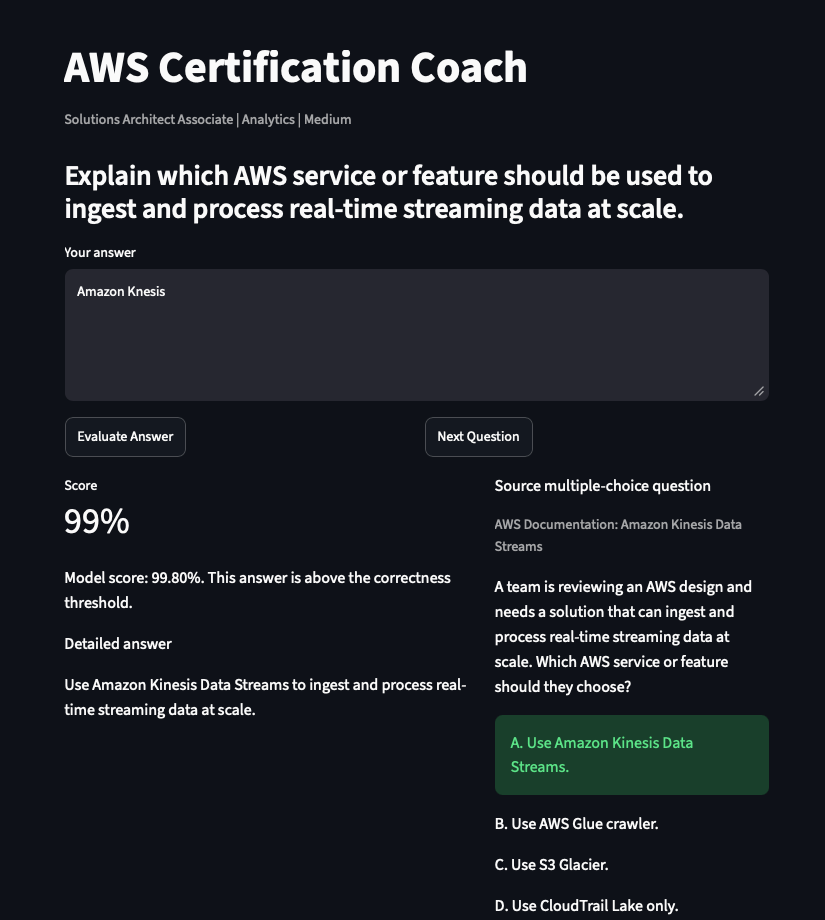
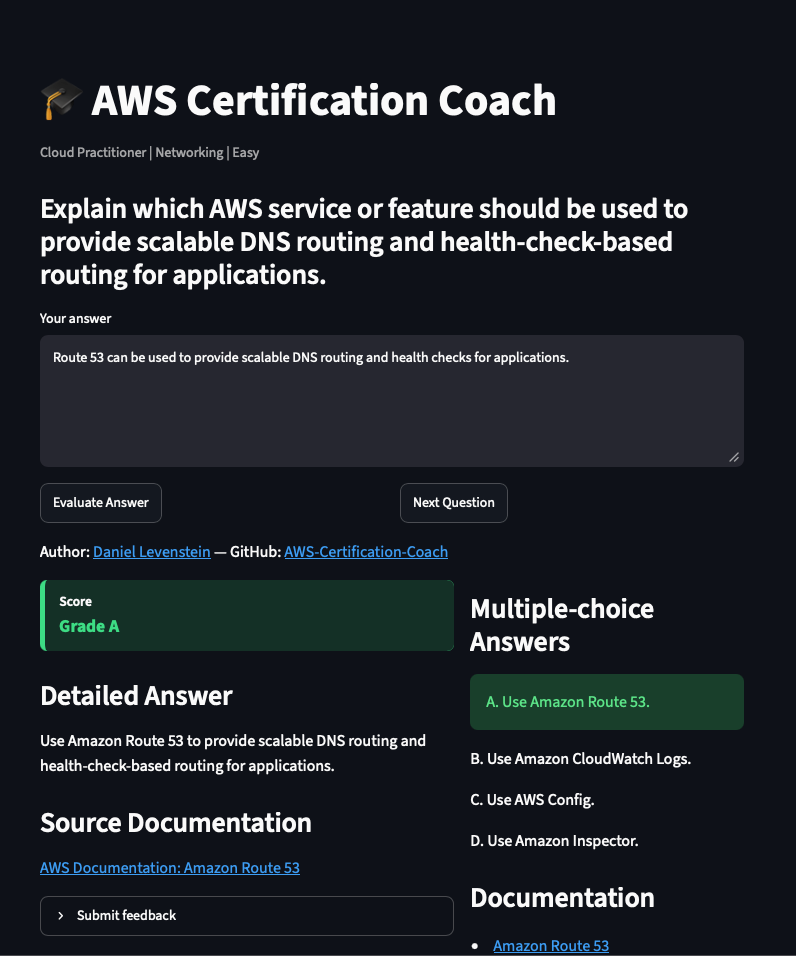
v3.2.3 Updated per letter grade screenshots.

diff --git a/app.py b/app.py
@@ -19,12 +19,12 @@ from aws_certification_coach.questions.json_repository import JsonQuestionReposi
 from aws_certification_coach.quiz.session import QuizSession
 from aws_certification_coach.ratings import LETTER_RATINGS, score_to_letter
 
-
+# TODO move user_feedback version to schema_version.json
 QUESTIONS_PATH = ROOT_DIR / "data" / "questions" / "sample_questions.json"
 USER_FEEDBACK_PATH = Path(
     os.environ.get(
         "USER_FEEDBACK_PATH",
-        ROOT_DIR / "data" / "generated" / "user_feedback.v2.json",
+        ROOT_DIR / "data" / "generated" / "user_feedback.v3.json",
     )
 )
 SHOW_SUGGESTED_IMPROVEMENTS_ENV = "SHOW_SUGGESTED_IMPROVEMENTS"

diff --git a/README.md b/README.md
@@ -14,7 +14,7 @@ The latest version of this project is deployed live on Render.
 
 ## Application Screenshot
 
-<img src="docs/images/aws-certification-coach3.png" alt="Certification Exam Screenshot" width="720">
+<img src="docs/images/aws-certification-coach.png" alt="Certification Exam Screenshot" width="720">
 
 *Figure: The coach scores a freeform Amazon answer and displays detailed feedback alongside the source multiple-choice question.*
 
@@ -50,7 +50,7 @@ The schema redesign branch starts the v3 release line. Use `v3.1.x` for new rele
 
 
 | Release | Description                                                                                        |
-| ------- | -------------------------------------------------------------------------------------------------- |
+|---------|----------------------------------------------------------------------------------------------------|
 | v1.0.0  | Initial Streamlit/Docker release with generated AWS certification practice questions..             |
 | v1.1.0  | Separated the app-facing question bank from training labels.                                       |
 | v1.3.1  | Test framework redesign; initial curated grade-band accuracy was 44%.                              |
@@ -60,7 +60,9 @@ The schema redesign branch starts the v3 release line. Use `v3.1.x` for new rele
 | v2.1.1  | Added AWS Developer Certification practice questions                                               |
 | v2.3.6  | Improved answer evaluation model and added within one letter grade metric to release notes         |
 | v2.4.5  | Got exact letter accuracy metric over 87%                                                          |
-
+| v3.1.4  | Heuristic grading improvement                                                                      |
+| v3.2.1  | Added Semantic Similarity chart back                                                               |
+| v3.2.3  | Updated per letter grade screenshots.                                                              |
 #### Scope
 
 Certifications:
